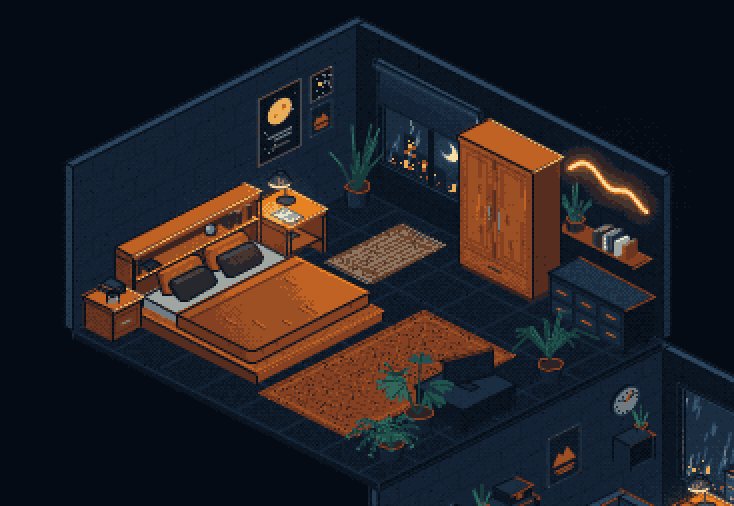
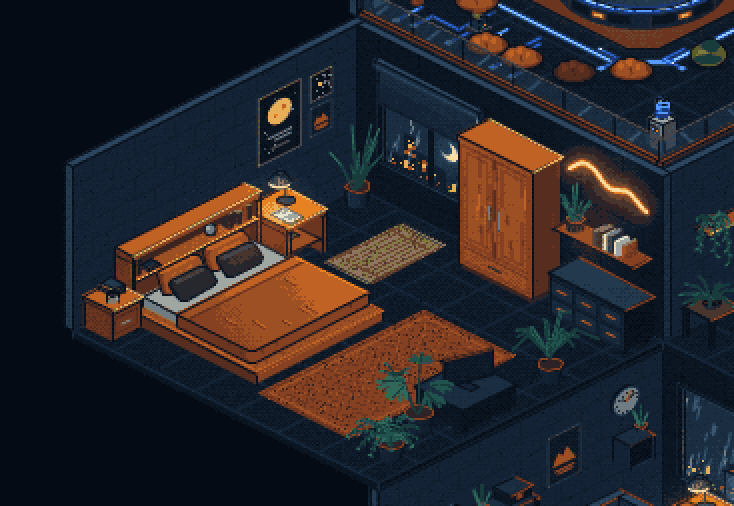
w
w

Changed region(s): [[0.4796, 0.0, 1.0, 0.7708], [0.4496, 0.4447, 0.5995, 0.5632], [0.9891, 0.919, 1.0, 1.0]]

diff --git a/src/scene/roomFour.js b/src/scene/roomFour.js
@@ -11,10 +11,12 @@
    along the open sides.
 
    Everything is placed here and nowhere else. Positions are in
-   this room's own units — 14 × 14, walls 7 high, origin at the
-   far corner, the screen wall cutting that corner from (0, 5.3)
-   to (5.3, 0) — and the scene that holds the rooms puts it where
-   it goes. Painter order, as in the other rooms.
+   this room's own units — 15 × 14 (as wide as room two, whose
+   back wall it stands on, as deep as room three, whose left wall
+   it stands on), walls 7 high, origin at the far corner, the
+   screen wall cutting that corner from (0, 5.3) to (5.3, 0) —
+   and the scene that holds the rooms puts it where it goes.
+   Painter order, as in the other rooms.
 
    Three things here you can touch: the rig — the truss with its
    spots is this room's lamp; the neon — the tubes, the ring, the
@@ -29,7 +31,7 @@
   const light = QH.light;
   const { clamp } = QH;
 
-  const room = QH.scenes.booth(14, 14, 7, 5.3, 0.4, 0.4);
+  const room = QH.scenes.booth(15, 14, 7, 5.3, 0.4, 0.4);
   const { W, D, H, C, S } = room;
   const NEON = { sw: 'four-neon' };                                    // sw: the neon's switch in light.switches
   /** How lit the neon is right now, 0..1, easing after a click. */
@@ -88,7 +90,7 @@
     A.neonFloor(5.7, 5.7, { a: 4.3, c: 1.4, on: neonOn(), t, chase: e, warm: light.lamp, traces: TRACES, clipTo: [[0, 0, 0], [W, 0, 0], [W, D, 0], [0, D, 0]] });
     // the palms stand outside, behind the walls — the walls hide their trunks, their crowns look over
     A.datePalm(-1.3, 12.1, 0, { h: 8.2, seed: 113, lean: 0.4 });
-    A.datePalm(12.1, -1.3, 0, { h: 7.8, seed: 117, lean: -0.3, n: 8 });
+    A.datePalm(13.1, -1.3, 0, { h: 7.8, seed: 117, lean: -0.3, n: 8 });
     room.walls();
 
     /* ── the screen wall: the panel, the beams down it, then the mark and the name ── */
@@ -109,13 +111,13 @@
     A.posterFrame('L', 11.9, 0.95, 1.6, 2.6, { print: true });
     A.edgeLight('L', 10.9, 13.9, H + 0.02, { on: light.lamp });
 
-    /* ── back wall, far to near ── */
+    /* ── back wall, far to near — a unit longer than the left one, the frames at its end ── */
     tubes[2] = A.neonTube('B', 6.0, 1.2, 5.0, { on: neonOn() });
     A.banner('B', 6.8, 2.3, 2.6, 3.4, { glow: 0.6 + 0.4 * neonOn() });
     tubes[3] = A.neonTube('B', 10.2, 1.2, 5.0, { on: neonOn() });
-    A.galleryFrame('B', 11.5, 4.4, 2.2, 1.4, { on: light.lamp, seed: 73 });
-    A.posterFrame('B', 11.9, 0.95, 1.6, 2.6, { print: true });
-    A.edgeLight('B', 10.9, 13.9, H + 0.02, { on: light.lamp });
+    A.galleryFrame('B', 12.5, 4.4, 2.2, 1.4, { on: light.lamp, seed: 73 });
+    A.posterFrame('B', 12.9, 0.95, 1.6, 2.6, { print: true });
+    A.edgeLight('B', 10.9, 14.9, H + 0.02, { on: light.lamp });
 
     /* ── the rig, over everything on the walls ── */
     lamp = A.truss(TRUSS, TZ, { on: light.lamp, led: neonOn(), ledSpan: 1, cans: CANS, heads: HEADS });
@@ -138,8 +140,8 @@
     A.waterCooler(7.0, 0.3, { face: '+y' });
     A.orangeDrawers(8.05, 0.35, { w: 1.1, d: 0.9, h: 1.4 });
     A.mixerDesk(9.35, 0.3, t, { w: 3.2, d: 1.5, h: 1.7 });
-    A.tallPot(13.0, 1.0, 0, { seed: 133, size: 1.6, r: 0.38 });
-    A.cactusPot(12.7, 2.3, 0, { seed: 137 });
+    A.tallPot(14.0, 1.0, 0, { seed: 133, size: 1.6, r: 0.38 });
+    A.cactusPot(13.7, 2.3, 0, { seed: 137 });
 
     // the beanbags, and whoever's sat between them
     A.beanbag(2.5, 10.6, { kind: 'orange', seed: 5 });
@@ -150,15 +152,16 @@
     A.beanbag(6.4, 12.3, { kind: 'orange', seed: 13 });
     A.beanbag(9.7, 10.2, { kind: 'orange', seed: 15 });
     A.beanbag(8.4, 11.7, { kind: 'rust', seed: 17 });
-    A.waterCooler(12.5, 12.5, { face: '+y' });
+    A.waterCooler(13.5, 12.5, { face: '+y' });
 
     // the rails along the open edges, the corner post shared
-    A.glassRail(0, 13.6, 13.9, { along: 'x' });
-    A.glassRail(13.6, 0, 13.9, { along: 'y' });
+    A.glassRail(0, 13.6, 14.9, { along: 'x' });
+    A.glassRail(14.6, 0, 13.9, { along: 'y' });
   }
   const TEXT = 'YOUR SPONSOR';                                        // the name on the screen — change it here
 
-  // the traces laid into the tiles: out from the ring toward the rails, each a few right-angled steps, mirrored across the room's diagonal
+  // the traces laid into the tiles: out from the ring toward the rails, each a few right-angled steps, mirrored across the
+  // room's diagonal — the right-hand rail being a unit further out than the left, the last legs that way run a unit longer
   const TRACES = (() => {
     const left = [
       [[1.6, 9.2], [1.6, 10.6], [0.7, 10.6]],
@@ -168,7 +171,8 @@
       [[4.4, 11.0], [4.4, 11.9], [3.6, 11.9], [3.6, 13.1]],
       [[1.2, 12.0], [1.2, 13.3]],
     ];
-    return [...left, ...left.map(T => T.map(([x, y]) => [y, x])), [[5.9, 10.9], [5.9, 13.2]], [[7.6, 9.7], [8.6, 9.7], [8.6, 10.6]], [[9.7, 7.6], [9.7, 8.6], [10.6, 8.6]]];
+    const out = v => (v > 11.5 ? v + (W - D) : v);
+    return [...left, ...left.map(T => T.map(([x, y]) => [out(y), x])), [[5.9, 10.9], [5.9, 13.2]], [[7.6, 9.7], [8.6, 9.7], [8.6, 10.6]], [[9.7, 7.6], [9.7, 8.6], [10.6, 8.6]]];
   })();
 
   /* The lighting pass: the lenses and where the beams land, the

diff --git a/src/scene/booth.js b/src/scene/booth.js
@@ -41,9 +41,9 @@
 
       floor() {
         box(0, 0, -FT, W, D, FT, M.navyDk, { colTop: M.navyDk, top: 1, left: 0.85, right: 0.65, edgeCol: M.navy });
-        const T = W / 4;                                                // big tiles, four across
-        for (let i = 0; i <= W + 0.01; i += T) stroke([[i, 0, 0], [i, D, 0]], rgb(M.navy));
-        for (let j = 0; j <= D + 0.01; j += T) stroke([[0, j, 0], [W, j, 0]], rgb(M.navy));
+        const TX = W / 4, TY = D / 4;                                   // big tiles, four across each way
+        for (let i = 0; i <= W + 0.01; i += TX) stroke([[i, 0, 0], [i, D, 0]], rgb(M.navy));
+        for (let j = 0; j <= D + 0.01; j += TY) stroke([[0, j, 0], [W, j, 0]], rgb(M.navy));
         grain(Math.round(W * D * 2.0), M.floor, 3, 1, R => [R() * W, R() * D, 0.01]);
         grain(Math.round(W * D * 0.7), M.ink, 4, 1, R => [R() * W, R() * D, 0.01]);
       },

diff --git a/src/scene/house.js b/src/scene/house.js
@@ -5,7 +5,9 @@
    on the wall's top and nothing in one room hides anything in
    another. The two upstairs rooms meet at a corner over room
    one's far corner — and room four, the booth, sits up over that
-   corner in turn, its floor on the tops of their back walls.
+   corner in turn, its floor on the tops of room two's back wall
+   and room three's left, so it's as wide as the one and as deep
+   as the other.
 
    Each room is drawn in its own coordinates with the origin moved
    (cam.at), its own light sources and its own lamp switch made

diff --git a/README.md b/README.md
@@ -90,7 +90,7 @@ and every file can be read on its own.
 ## The assets
 
 Every function takes a position in **world units** (room one is 14 × 14, room two
-15 × 14, rooms three and four 14 × 14, walls 8 high — 7 in the booth — origin at each room's far corner; +x runs along the back wall,
+15 × 14, room three 14 × 14, room four 15 × 14 — as wide as room two and as deep as room three, whose walls it stands on — walls 8 high — 7 in the booth — origin at each room's far corner; +x runs along the back wall,
 +y along the left wall, +z up) and an options object for size and variants. Floor
 pieces take the far corner of their footprint; wall pieces take a wall (`'L'` or `'B'` —
 or `'S'`, the booth's screen wall) and a position along it.
